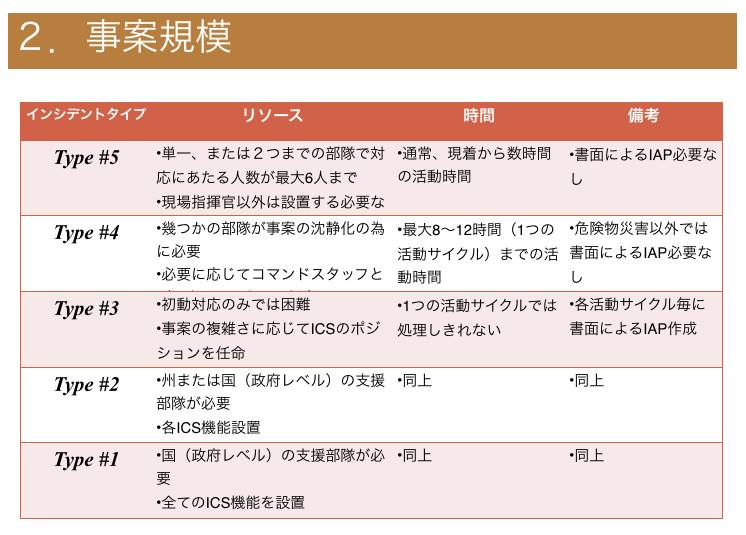
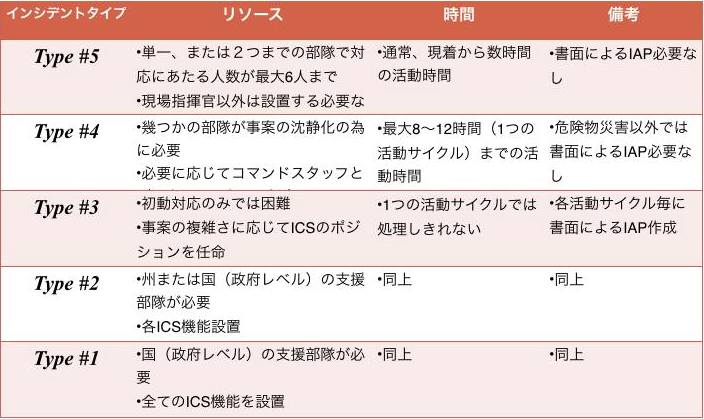
参考資料：ICT 事案規模 (c) 熊丸 由布治 追加
参考資料：ICT 事案規模 (c) 熊丸 由布治 追加

diff --git a/rule/index.html b/rule/index.html
@@ -68,7 +68,7 @@
 <li>メンターがチームに参加しても良い。（但し、審査員メンターのチーム参加は禁止）</li>
 <li>運営スタッフがチームに参加しても良い。（但し、審査員対応スタッフは禁止）</li>
 <li>成果発表時に、6名以下の場合は「◯◯◯チーム インシデントタイプは Type #5 です。リーダーは△△△さんです。」とチーム規模を説明する。7名以上の場合は「◯◯◯チーム インシデントタイプは Type #4 です。リーダーは△△△さんと☓☓☓さんです。」と前振りする。このタイプ分けは、米国で標準化されている現場指揮システム「<a href="http://ja.wikipedia.org/wiki/%E3%82%A4%E3%83%B3%E3%82%B7%E3%83%87%E3%83%B3%E3%83%88%E3%83%BB%E3%82%B3%E3%83%9E%E3%83%B3%E3%83%89%E3%83%BB%E3%82%B7%E3%82%B9%E3%83%86%E3%83%A0">インシデント・コマンド・システム(ICS)</a>」の監督限界を採用したものであり、評価の「チームの取り組み」基準として判断。</li>
-<img src="../assets/img/ICSincident_type.jpg"  width="746" height="535" />
+<img src="../assets/img/ICSincident_type.jpg"  width="704" height="419" />
 参考資料：ICT 事案規模 (c) 熊丸 由布治</br>
 </ul>
 
